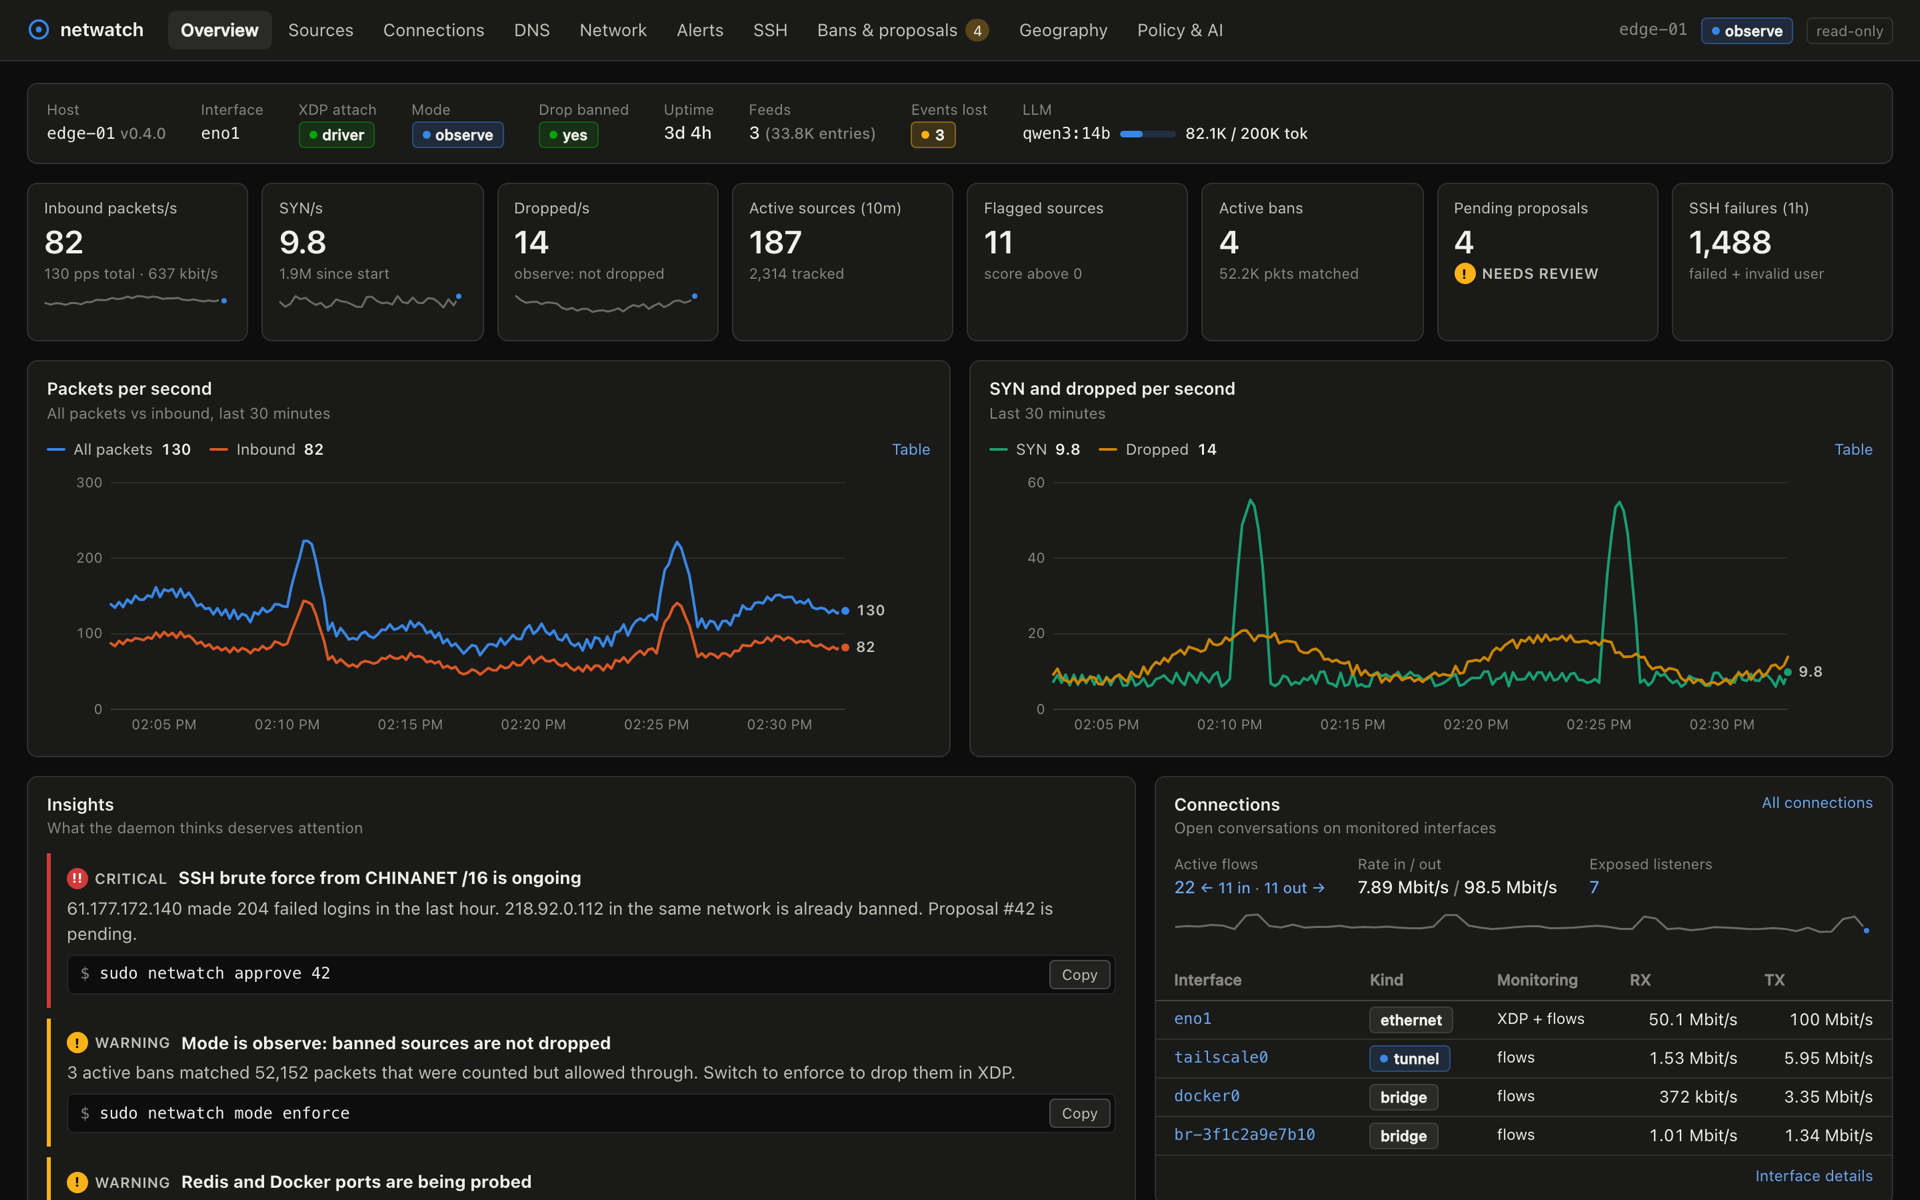
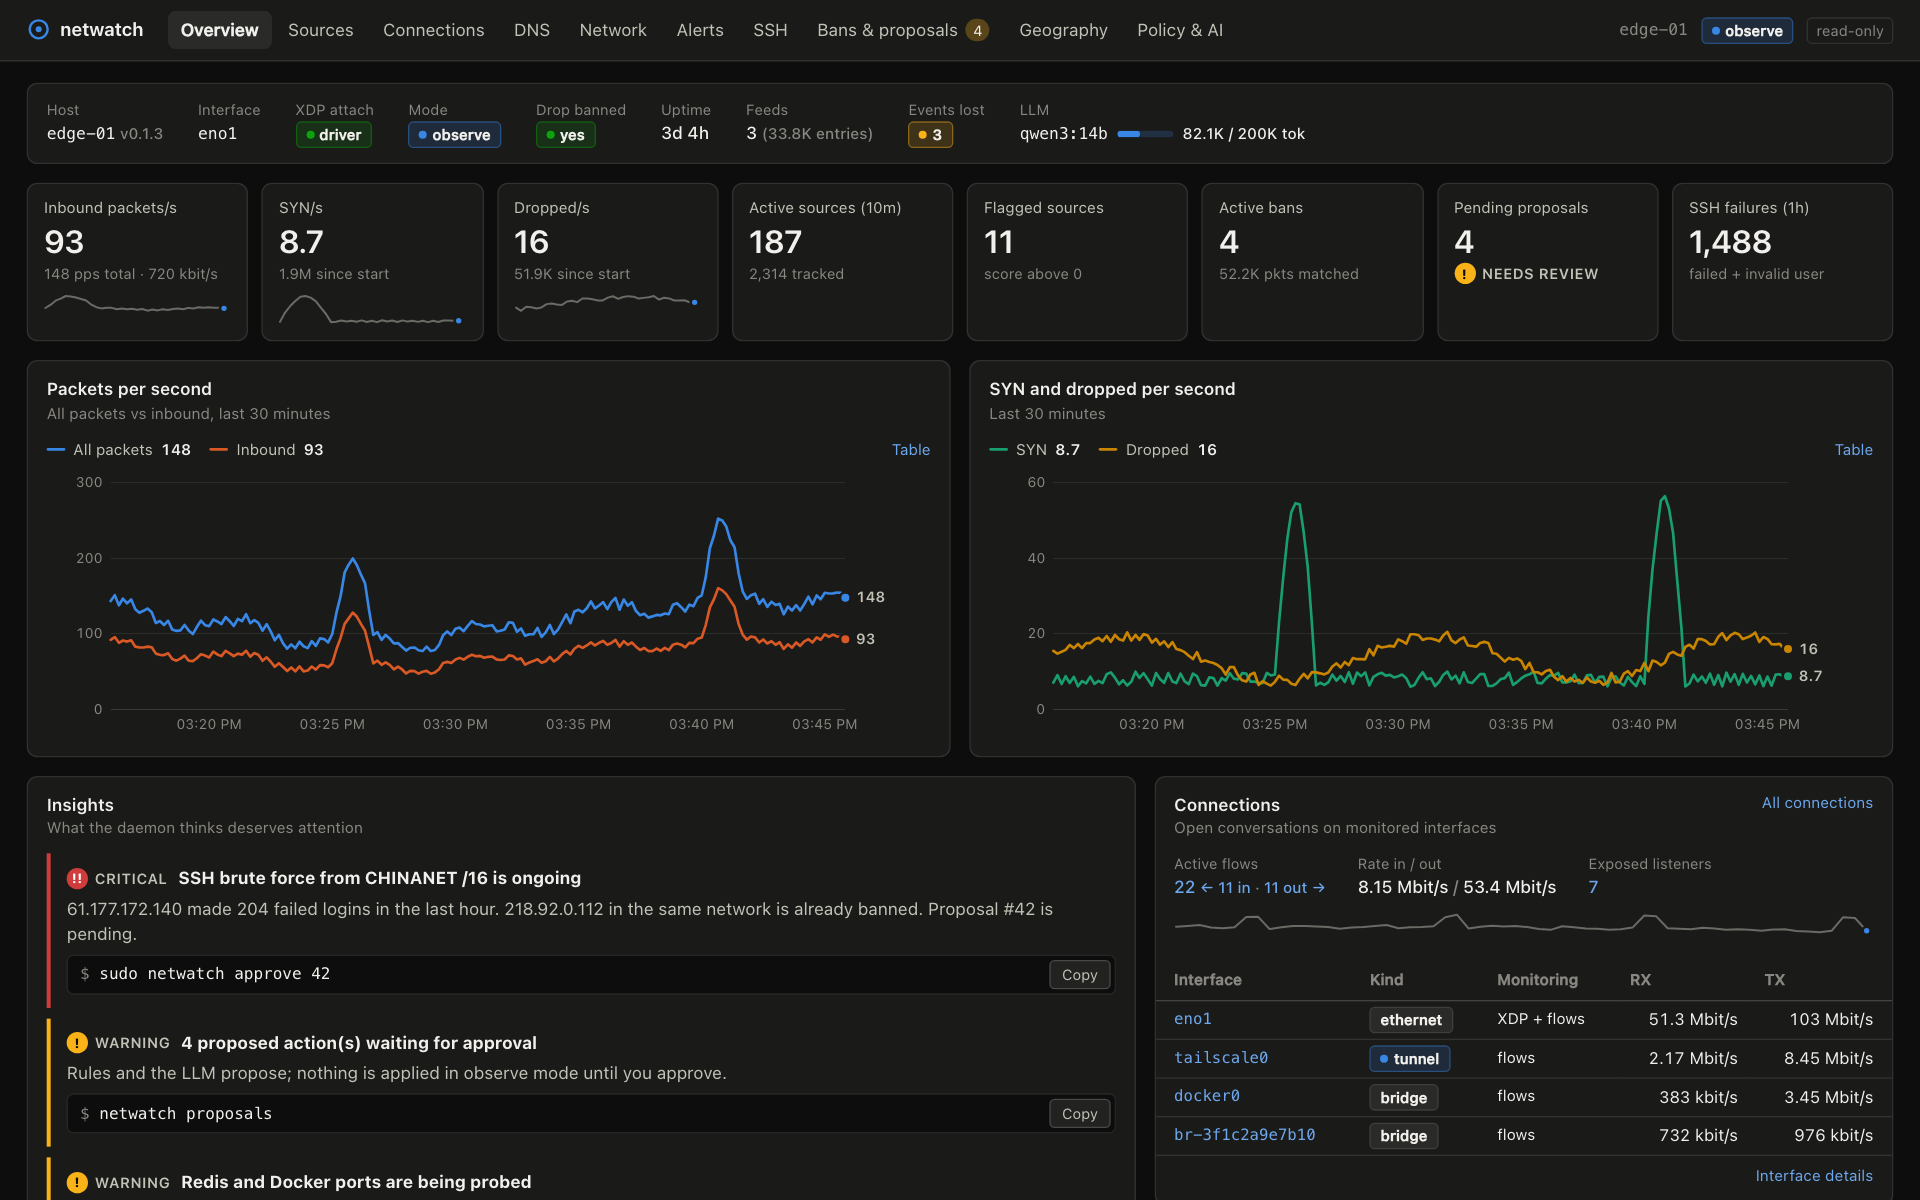
fix(ui): the Dropped tile says "not dropped" only when bans aren't dropped (#17)
* fix(ui): the Dropped tile says "not dropped" only when bans aren't dropped

In observe mode bans still drop when drop_banned = true; the tile keyed
on the mode, so it said "observe: not dropped" while dropping. It now
follows drop_banned, and macOS capture without pf.

The demo data, which the docs screenshots show, suggested commands that
don't exist (`netwatch mode enforce`, `netwatch llm status`) and said
observe mode doesn't drop bans. It now shows insights the daemon really
gives, a dropped total that matches the rate, and the UI's own version
instead of 0.4.0. The Overview screenshots are regenerated.

* docs: regenerate the README's Overview screenshot from the fixed demo data

It is the first image on the GitHub page, and showed the nonexistent
`sudo netwatch mode enforce` and the false "observe mode doesn't drop"
insight.

---------

diff --git a/ui/src/api/mock.ts b/ui/src/api/mock.ts
@@ -1,5 +1,6 @@
 // Fixture data for `npm run dev:mock` (VITE_MOCK=1). Loaded via dynamic import
 // from client.ts only in mock mode, so none of this ships in production builds.
+import pkg from "../../package.json";
 import { ApiError } from "./client";
 import type {
   Alert,
@@ -387,10 +388,10 @@ function proposals(): Proposal[] {
 function insights(): Insight[] {
   return [
     { level: "critical", title: "SSH brute force from CHINANET /16 is ongoing", detail: "61.177.172.140 made 204 failed logins in the last hour. 218.92.0.112 in the same network is already banned. Proposal #42 is pending.", action: "sudo netwatch approve 42" },
-    { level: "warn", title: "Mode is observe: banned sources are not dropped", detail: "3 active bans matched 52,152 packets that were counted but allowed through. Switch to enforce to drop them in XDP.", action: "sudo netwatch mode enforce" },
+    { level: "warn", title: "4 proposed action(s) waiting for approval", detail: "Rules and the LLM propose; nothing is applied in observe mode until you approve.", action: "netwatch proposals" },
     { level: "warn", title: "Redis and Docker ports are being probed", detail: "6 sources touched 6379/2375 in the last 24h. Neither is listening, but confirm the firewall blocks them on every interface.", action: null },
     { level: "info", title: "Cloudflare traffic allowlisted", detail: "2 Cloudflare edge IPs account for 91% of inbound bytes; they are excluded from scoring.", action: null },
-    { level: "info", title: "LLM budget at 41%", detail: "82,100 of 200,000 tokens used today across 14 runs.", action: "sudo netwatch llm status" },
+    { level: "info", title: "9 source(s) would be banned automatically in enforce mode", detail: "Set mode = \"enforce\" in the config once you trust the proposals.", action: "netwatch proposals" },
   ];
 }
 
@@ -472,7 +473,7 @@ function overview(): Overview {
   const last = s[s.length - 1];
   return {
     host: "edge-01",
-    version: "0.4.0",
+    version: pkg.version,
     interface: "eno1",
     attach_mode: "driver",
     mode: "observe",
@@ -480,7 +481,7 @@ function overview(): Overview {
     started_at: BOOT,
     now: t,
     rates: { pps: last.pps, bps: last.pps * 610 * 8, in_pps: last.in_pps, syn_pps: last.syn_pps, dropped_pps: last.dropped_pps },
-    totals: { packets: 41_822_390, bytes: 31_408_811_200, in_packets: 26_120_334, syn: 1_904_221, blocked: 52_152, dropped: 0, events_lost: 3 },
+    totals: { packets: 41_822_390, bytes: 31_408_811_200, in_packets: 26_120_334, syn: 1_904_221, blocked: 52_152, dropped: 51_906, events_lost: 3 },
     counts: { sources_tracked: 2_314, sources_active_10m: 187, flagged: 11, bans_active: 4, proposals_pending: 4, ssh_failed_1h: 1_488 },
     llm: llmStatus(),
     geo_db: true,

diff --git a/ui/src/pages/Overview.tsx b/ui/src/pages/Overview.tsx
@@ -254,7 +254,8 @@ export default function Overview() {
         <StatTile
           label="Dropped/s"
           value={fmtCompact(o.rates.dropped_pps)}
-          context={o.mode === "observe" ? "observe: not dropped" : `${fmtCompact(o.totals.dropped)} since start`}
+          // Bans drop in observe mode too; only drop_banned = false (or macOS without pf) counts them instead.
+          context={o.drop_banned && o.attach_mode !== "capture" ? `${fmtCompact(o.totals.dropped)} since start` : "bans counted, not dropped"}
           trend={tail("dropped_pps")}
         />
         <StatTile label="Active sources (10m)" value={fmtCompact(c.sources_active_10m)} context={`${fmtCompact(c.sources_tracked)} tracked`} href="#/sources?sort=last_seen" />
